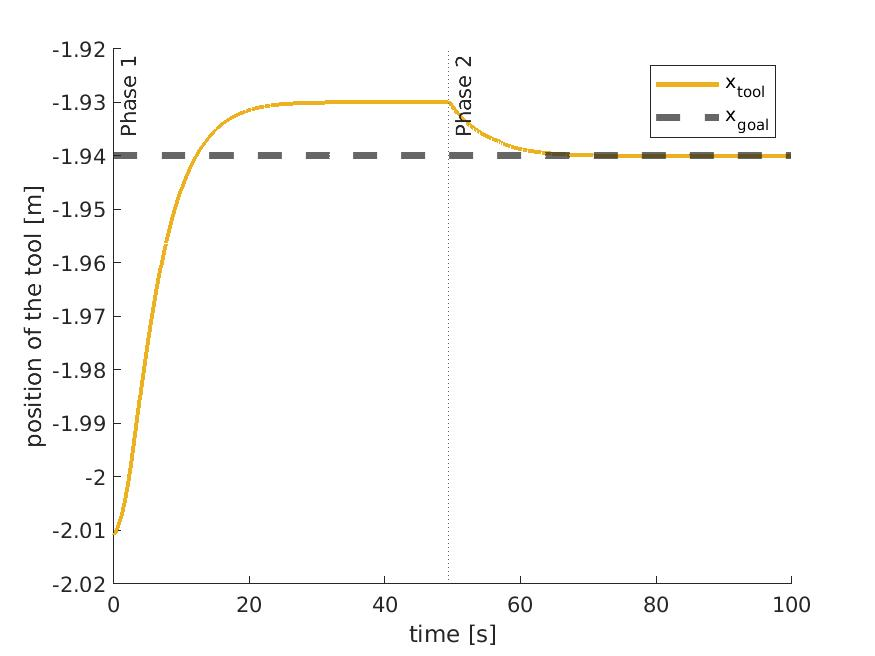
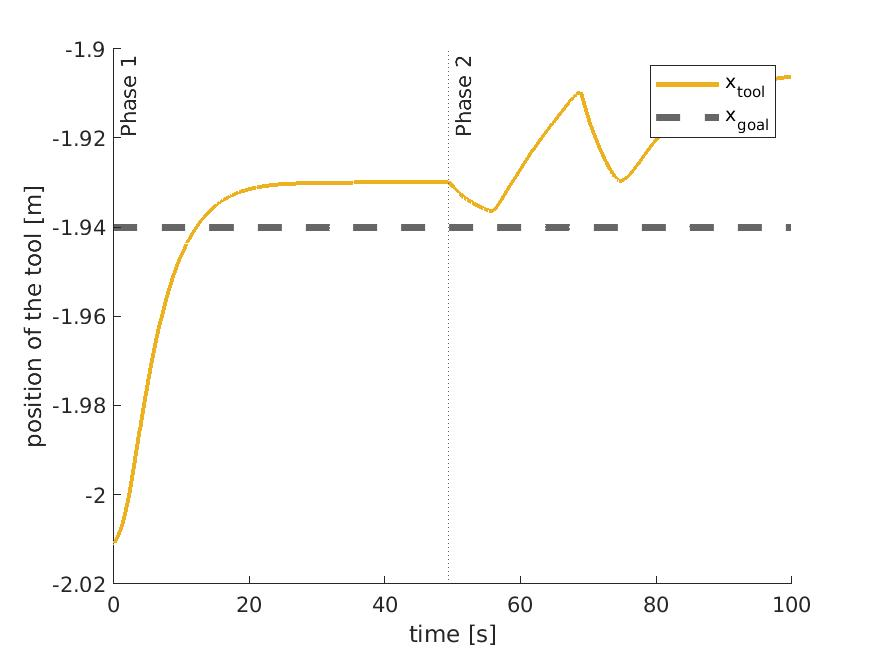
final version of 5_2 with all plots

diff --git a/cooperative_robotics/plot_scripts/PrintPlot_5_2.m b/cooperative_robotics/plot_scripts/PrintPlot_5_2.m
@@ -2,7 +2,7 @@ function [ ] = PrintPlot_5_2( plt, uvms )
 % some predefined plots
 % you can add your own
 dir='./plot_output/5_2/';
-suffix='_pref_enabled';
+suffix='_pref_disabled';
 
 mission_transitions = [];
 phases = [1 2 3 4 5 6 7 8 9 10];
@@ -44,7 +44,7 @@ for i = 1:length(mission_transitions)
     xline(mission_transitions(i),':',strcat("Phase ",int2str(i)));
 end
 legend('x_{tool}','x_{goal}');
-lgd.Location = 'southeast';
+lgd.Location = 'eastoutside';
 saveas(gcf,strcat(dir,'x_tool',suffix,'.jpg'))
 
 fig = figure();hold on;
@@ -59,7 +59,7 @@ for i = 1:length(mission_transitions)
     xline(mission_transitions(i),':',strcat("Phase ",int2str(i)));
 end
 legend('y_{tool}','y_{goal}');
-lgd.Location = 'southeast';
+lgd.Location = 'eastoutside';
 saveas(gcf,strcat(dir,'y_tool',suffix,'.jpg'))
 
 
@@ -75,7 +75,7 @@ for i = 1:length(mission_transitions)
     xline(mission_transitions(i),':',strcat("Phase ",int2str(i)));
 end
 legend('z_{tool}','z_{goal}');
-lgd.Location = 'southeast';
+lgd.Location = 'eastoutside';
 saveas(gcf,strcat(dir,'z_tool',suffix,'.jpg'))
 
 

diff --git a/cooperative_robotics/EnableTasksSetPriorities.m b/cooperative_robotics/EnableTasksSetPriorities.m
@@ -15,9 +15,9 @@ function [Qp, rhop] = EnableTasksSetPriorities(uvms, mission, rhop, Qp)
         case 2
             [Qp, rhop] = iCAT_task(uvms.A.jl,    uvms.J.jl,    Qp, rhop, uvms.xdot.jl,  0.0001,   0.01, 10);
             [Qp, rhop] = iCAT_task(uvms.A.fix,    uvms.J.fix,    Qp, rhop, uvms.xdot.fix,  0.0001,   0.01, 10);
-            [Qp, rhop] = iCAT_task(uvms.A.ha,   uvms.Jha,   Qp, rhop, uvms.xdot.ha, 0.0001,   0.01, 10);
+            %[Qp, rhop] = iCAT_task(uvms.A.ha,   uvms.Jha,   Qp, rhop, uvms.xdot.ha, 0.0001,   0.01, 10);
             [Qp, rhop] = iCAT_task(uvms.A.t,    uvms.Jt,    Qp, rhop, uvms.xdot.t,  0.0001,   0.01, 10);
-            [Qp, rhop] = iCAT_task(uvms.A.pref_shape, uvms.J.pref_shape, Qp, rhop, uvms.xdot.pref_shape,  0.0001,   0.01, 10);
+            %[Qp, rhop] = iCAT_task(uvms.A.pref_shape, uvms.J.pref_shape, Qp, rhop, uvms.xdot.pref_shape,  0.0001,   0.01, 10);
         %     % Joint limit task
         %     [Qp, rhop] = iCAT_task(uvms.A.jl,    uvms.J.jl,    Qp, rhop, uvms.xdot.jl,  0.0001,   0.01, 10);
         %     %Minimum altitude

diff --git a/cooperative_robotics/ComputeActivationFunctions.m b/cooperative_robotics/ComputeActivationFunctions.m
@@ -38,7 +38,5 @@ end
 
 %Task 5.1 ----------------------------------
 % Preferred shape of the arm
-for i = 1: length(uvms.pref_shape)
-   uvms.A.pref_shape (i, i) = 0.6;
-end
+uvms.A.pref_shape = eye(4)
 

diff --git a/cooperative_robotics/MainDexrov.m b/cooperative_robotics/MainDexrov.m
@@ -1,5 +1,6 @@
 function MainDexrov
 addpath('./simulation_scripts');
+addpath('./plot_scripts');
 clc;
 clear;
 close all
